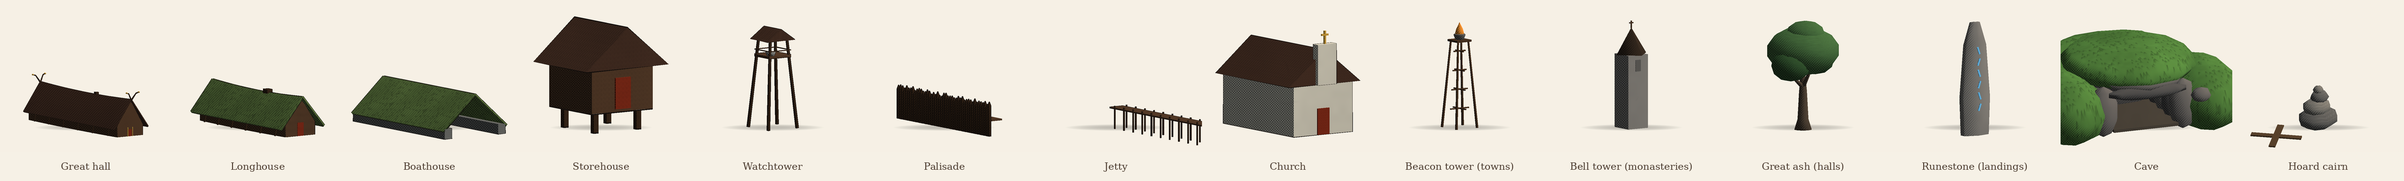
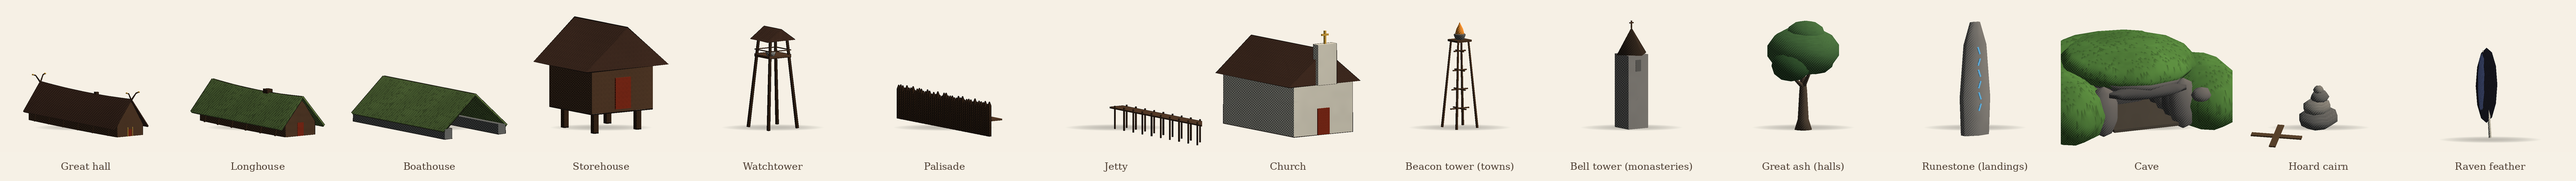
Raven feathers: three hidden on the high ground round every place, taken by walking into them for a little gold and Odin's favour, counted and saved
Claude-Session: https://claude.ai/code/session_01SCdejJ1UF8RUxAkkFhZXGU

diff --git a/OdinsCoin/Assets/Scripts/World/Feathers.cs b/OdinsCoin/Assets/Scripts/World/Feathers.cs
@@ -1,0 +1,113 @@
+using System.Collections.Generic;
+using UnityEngine;
+
+namespace OdinsCoin
+{
+    /// <summary>
+    /// Raven feathers, Odin's little secrets: three hidden round every place, each on the highest ground of a small
+    /// patch of land out beyond the houses (a knoll, a ridge, a clifftop). They hover and turn slowly, black and
+    /// glinting; walk into one to take it: a little gold and Odin's favour. How many you've found is kept.
+    /// </summary>
+    public static class Feathers
+    {
+        public const int PerPlace = 3;
+        /// <summary>How far out from the place's main building feathers lie (m).</summary>
+        public const float MinDistance = 60f, MaxDistance = 450f;
+        /// <summary>How close you must come to take one (m), and what it gives.</summary>
+        public const float PickRange = 1.4f;
+        public const int Gold = 15;
+        public const float Favour = 0.04f;
+
+        /// <summary>The key a feather is saved under.</summary>
+        public static string Key(Place place, int index) { return place.name + "#" + index; }
+
+        /// <summary>
+        /// Where a place's feathers are (global, hovering height above the ground): for each, the highest of a few
+        /// dry spots tried round a random point between <see cref="MinDistance"/> and <see cref="MaxDistance"/>,
+        /// clear of the buildings. The same spots every time.
+        /// </summary>
+        public static List<Vector3> Spots(Place place, List<Plot> plots, System.Func<float, float, float> height)
+        {
+            var list = new List<Vector3>();
+            var main = PlaceLife.MainBuilding(plots);
+            var rng = new System.Random(place.name.GetHashCode() ^ 0xfea7);
+            for (int f = 0, attempt = 0; f < PerPlace && attempt < 24; attempt++)
+            {
+                // Round a random point (tried again elsewhere if it fell in the sea).
+                float a = (float)rng.NextDouble() * Mathf.PI * 2f, r = Mathf.Lerp(MinDistance, MaxDistance, (float)rng.NextDouble());
+                var centre = new Vector3(main.at.x + Mathf.Sin(a) * r, 0f, main.at.z + Mathf.Cos(a) * r);
+                Vector3 best = Vector3.zero;
+                float bestH = float.MinValue;
+                for (int t = 0; t < 12; t++)
+                {
+                    var p = centre + new Vector3(((float)rng.NextDouble() - 0.5f) * 60f, 0f, ((float)rng.NextDouble() - 0.5f) * 60f);
+                    float h = height(p.x, p.z);
+                    if (h < 2f * WorldMap.Scale) continue;
+                    bool clear = true;
+                    foreach (var plot in plots) if (PlaceLife.InsideBuilding(plot, p, 6f)) { clear = false; break; }
+                    if (!clear || h <= bestH) continue;
+                    bestH = h;
+                    best = new Vector3(p.x, h, p.z);
+                }
+                if (bestH > float.MinValue) { list.Add(best); f++; }
+            }
+            return list;
+        }
+
+        static readonly Color Vane = new Color(0.1f, 0.1f, 0.13f), Sheen = new Color(0.24f, 0.28f, 0.42f), Quill = new Color(0.85f, 0.82f, 0.74f);
+
+        /// <summary>A long black feather, standing on its quill, with a blue-black sheen down one side of the vane.</summary>
+        public static VikingModel Model()
+        {
+            var m = new MergedModel();
+            m.Put(Quill, SurfaceKind.Plain, MeshData.Tube(new[] { new Vector3(0f, 0f, 0f), new Vector3(0.02f, 0.35f, 0f), new Vector3(0.06f, 0.7f, 0f) }, new[] { 0.012f, 0.01f, 0.004f }, 5));
+            m.Put(Vane, SurfaceKind.Fur, MeshData.Ellipsoid(new Vector3(0.03f, 0.42f, 0f), new Vector3(0.09f, 0.3f, 0.015f), 8, 6));
+            m.Put(Sheen, SurfaceKind.Fur, MeshData.Ellipsoid(new Vector3(0.07f, 0.44f, 0.004f), new Vector3(0.04f, 0.24f, 0.012f), 6, 5));
+            return m.ToModel("Feather");
+        }
+
+        /// <summary>Put up a place's feathers that haven't been taken yet.</summary>
+        public static void Build(Transform parent, Place place, List<Vector3> spots)
+        {
+            for (int i = 0; i < spots.Count; i++)
+            {
+                if (Upgrades.Current.Feathers.Contains(Key(place, i))) continue;
+                var t = new GameObject("Raven Feather").transform;
+                t.SetParent(parent, false);
+                t.position = WorldOrigin.ToScene(spots[i].x, spots[i].z, spots[i].y + 0.9f);
+                ModelView.Show(Model(), t);
+                var f = t.gameObject.AddComponent<RavenFeather>();
+                f.key = Key(place, i);
+            }
+        }
+
+        /// <summary>How many feathers there are in the world (for "found 7 of 78").</summary>
+        public static int Total { get { return Places.All.Length * PerPlace; } }
+    }
+
+    /// <summary>One feather: bobs and turns, and is taken when the player walks into it.</summary>
+    public class RavenFeather : MonoBehaviour
+    {
+        public string key;
+        Vector3 home;
+        bool started;
+
+        void Update()
+        {
+            if (!started) { home = transform.localPosition; started = true; }
+            transform.localPosition = home + Vector3.up * Mathf.Sin(Time.time * 1.6f + home.x) * 0.12f;
+            transform.localRotation = Quaternion.Euler(0f, Time.time * 50f, 12f);
+            var boot = GameBootstrap.Instance;
+            if (boot == null || boot.Player == null) return;
+            var d = boot.Player.transform.position + Vector3.up * 0.9f - transform.position;
+            if (d.magnitude > Feathers.PickRange) return;
+            var u = Upgrades.Current;
+            if (!u.Feathers.Contains(key)) u.Feathers.Add(key);
+            Fortune.Current.Gold += Feathers.Gold;
+            Fortune.Current.AddFavour(Feathers.Favour);
+            Sfx.At(SfxId.Blessing, transform.position, 0.8f, 0.1f);
+            CombatHud.Banner("A RAVEN FEATHER", "Odin's raven passed this way. " + u.Feathers.Count + " of " + Feathers.Total + " found, and " + Feathers.Gold + " gold.");
+            Destroy(gameObject);
+        }
+    }
+}

diff --git a/tools/tests/LogicTests.cs b/tools/tests/LogicTests.cs
@@ -273,6 +273,9 @@ public static class LogicTests
             stepSave.Steps = 3;
             Fortune stepF; Upgrades stepU;
             SaveGame.Deserialize(SaveGame.Serialize(new Fortune(), stepSave), out stepF, out stepU);
+            stepSave.Feathers.Add("Kaupang#1");
+            SaveGame.Deserialize(SaveGame.Serialize(new Fortune(), stepSave), out stepF, out stepU);
+            Check(stepU.Feathers.Contains("Kaupang#1"), "found raven feathers survive a save");
             Check(stepU.Steps == 3, "how far through the first voyage's hints survives a save");
             // Over many throws of a single chest staked again and again, the average stays what it was: a fair game.
             var rng = new System.Random(11);
@@ -782,6 +785,27 @@ public static class LogicTests
                 if (Caves.Spot(place, cavePlots, (x, z) => TerrainDetail.Height(map, x, z), out at, out yaw)) caves++;
             }
             Check(towns > 20 && caves == towns, caves + " of " + towns + " places have a cave or howe");
+            // And three raven feathers on the high ground round about, on dry land, the same every time.
+            int featherPlaces = 0, featherFine = 0;
+            foreach (var place in Places.All)
+            {
+                var fplots = Settlements.Layout(map, place);
+                if (fplots.Count == 0) continue;
+                Func<float, float, float> fground = (x, z) => TerrainDetail.Height(map, x, z);
+                var a = Feathers.Spots(place, fplots, fground);
+                var b = Feathers.Spots(place, fplots, fground);
+                if (a.Count != Feathers.PerPlace) continue;
+                featherPlaces++;
+                var main = PlaceLife.MainBuilding(fplots).at;
+                bool ok = true;
+                for (int i = 0; i < a.Count; i++)
+                {
+                    float dist = new Vector2(a[i].x - main.x, a[i].z - main.z).magnitude;
+                    ok &= a[i] == b[i] && a[i].y >= 2f && dist > Feathers.MinDistance - 45f && dist < Feathers.MaxDistance + 45f;
+                }
+                if (ok) featherFine++;
+            }
+            Check(featherPlaces >= towns - 2 && featherFine == featherPlaces, featherPlaces + " places have three raven feathers out on the dry high ground");
         }
 
         // Buried hoards: one out beyond every place's houses, on dry land, the same spot every time.

diff --git a/tools/preview/HeroPreview.cs b/tools/preview/HeroPreview.cs
@@ -435,8 +435,8 @@ public static class HeroPreview
         var names = new List<string> { "Great hall", "Longhouse", "Boathouse", "Storehouse", "Watchtower", "Palisade", "Jetty", "Church" };
         // And the landmarks that mark each place from far out at sea.
         var marks = new[] { LandmarkKind.BeaconTower, LandmarkKind.BellTower, LandmarkKind.GreatAsh, LandmarkKind.RuneStone };
-        names.AddRange(new[] { "Beacon tower (towns)", "Bell tower (monasteries)", "Great ash (halls)", "Runestone (landings)", "Cave", "Hoard cairn" });
-        int w = cellW * (kinds.Length + marks.Length + 2), h = cellH;
+        names.AddRange(new[] { "Beacon tower (towns)", "Bell tower (monasteries)", "Great ash (halls)", "Runestone (landings)", "Cave", "Hoard cairn", "Raven feather" });
+        int w = cellW * (kinds.Length + marks.Length + 3), h = cellH;
         var img = new float[w * h * 3];
         for (int i = 0; i < w * h; i++) { img[i * 3] = Paper.r; img[i * 3 + 1] = Paper.g; img[i * 3 + 2] = Paper.b; }
         for (int k = 0; k < kinds.Length; k++)
@@ -455,6 +455,7 @@ public static class HeroPreview
         }
         Render(img, w, h, (kinds.Length + marks.Length) * cellW, cellW, cellH, new Shot { model = Caves.Model(), pose = new Pose(), yaw = 200f, pitch = 18f, zoom = 0.84f * 2.45f / 13f });
         Render(img, w, h, (kinds.Length + marks.Length + 1) * cellW, cellW, cellH, new Shot { model = Hoards.Model(), pose = new Pose(), yaw = 215f, pitch = 25f, zoom = 0.84f * 2.45f / 3.5f });
+        Render(img, w, h, (kinds.Length + marks.Length + 2) * cellW, cellW, cellH, new Shot { model = Feathers.Model(), pose = new Pose(), yaw = 200f, pitch = 10f, zoom = 0.84f * 2.45f / 1f });
         using (var fs = new BinaryWriter(File.Create(rgbaPath)))
         {
             fs.Write(w); fs.Write(h);

diff --git a/OdinsCoin/Assets/Scripts/Core/SaveGame.cs b/OdinsCoin/Assets/Scripts/Core/SaveGame.cs
@@ -43,6 +43,7 @@ namespace OdinsCoin
             if (u.Dug.Count > 0) Line(sb, "dug", string.Join(",", u.Dug.ToArray()));
             if (u.Maps.Count > 0) Line(sb, "maps", string.Join(",", u.Maps.ToArray()));
             if (u.Caves.Count > 0) Line(sb, "caves", string.Join(",", u.Caves.ToArray()));
+            if (u.Feathers.Count > 0) Line(sb, "feathers", string.Join(",", u.Feathers.ToArray()));
             if (u.Steps > 0) Line(sb, "steps", u.Steps.ToString(CultureInfo.InvariantCulture));
             if (u.Vitality + u.Endurance + u.Luck > 0)
                 Line(sb, "gifts", u.Vitality.ToString(CultureInfo.InvariantCulture) + "," + u.Endurance.ToString(CultureInfo.InvariantCulture) + "," + u.Luck.ToString(CultureInfo.InvariantCulture));
@@ -101,6 +102,10 @@ namespace OdinsCoin
                     case "steps":
                         int steps;
                         if (int.TryParse(value, NumberStyles.Integer, CultureInfo.InvariantCulture, out steps)) u.Steps = System.Math.Max(0, System.Math.Min(steps, (int)FirstSteps.Step.Done));
+                        break;
+                    case "feathers":
+                        foreach (var feather in value.Split(','))
+                            if (feather.Trim().Length > 0 && !u.Feathers.Contains(feather.Trim())) u.Feathers.Add(feather.Trim());
                         break;
                     case "caves":
                         foreach (var name in value.Split(','))

diff --git a/OdinsCoin/Assets/Scripts/World/RealWorld.cs b/OdinsCoin/Assets/Scripts/World/RealWorld.cs
@@ -274,6 +274,9 @@ namespace OdinsCoin
             // A cave in the steepest hillside nearby, with a draugr guarding its gold.
             Vector3 cave; float caveYaw;
             if (Caves.Spot(place, plots, ground, out cave, out caveYaw)) { Caves.Build(root, place, cave, caveYaw); Scenery.Clearings.Add(new Vector3(cave.x, cave.z, 12f)); }
+            // Raven feathers hidden on the high ground round about.
+            var feathers = Feathers.Spots(place, plots, ground);
+            Feathers.Build(root, place, feathers);
             // A rune ring round it, with a gift for whoever works it out.
             ShrineRing.Build(root, place, WorldOrigin.ToScene(mark.x, mark.z, mark.y), p => TerrainDetail.Height(map, WorldOrigin.GlobalX(p), WorldOrigin.GlobalZ(p)));
             Scenery.Clearings.Add(new Vector3(mark.x, mark.z, 8f));

diff --git a/OdinsCoin/Assets/Scripts/Hall/Upgrades.cs b/OdinsCoin/Assets/Scripts/Hall/Upgrades.cs
@@ -60,6 +60,8 @@ namespace OdinsCoin
         public readonly List<string> Maps = new List<string>();
         /// <summary>The places whose caves you've emptied.</summary>
         public readonly List<string> Caves = new List<string>();
+        /// <summary>The raven feathers you've found (<see cref="Feathers.Key"/>).</summary>
+        public readonly List<string> Feathers = new List<string>();
         /// <summary>How far through the first voyage's hints (<see cref="FirstSteps.Step"/>).</summary>
         public int Steps;
 

diff --git a/OdinsCoin/ROADMAP.md b/OdinsCoin/ROADMAP.md
@@ -37,3 +37,4 @@ Sea of Thieves med vikinger og Zelda-utforsking, enkelt og artig. Gamblingen er 
 - [x] **20b. Grotter (`World/Caves.cs`):** ved hvert sted er det gravd en grotte inn i den bratteste bakken i nærheten, med åpningen ned mot dalen (på flatt land blir den en gravhaug med åpningen mot byen, der draugen holder til; før fikk bare 6 av 26 steder en grotte, nå får alle). Inne ligger en gullkiste (250–450 gull), og en draug (en død viking i grått) vokter inngangen. Bakken inne i grotta er gravd ut (terrengrutene rundt grotta tegnes i 1 m ruter i stedet for 25 m, så kammeret faktisk synes), og en tømt grotte forblir tom. Ryktene kan handle om grotter.
 - [x] **21. Rykter i stedet for oppdragsliste (`World/Rumours.cs`):** trykk E ved en innbygger for å høre et rykte om et rikt sted som ikke er plyndret, en nedgravd skatt eller en runering som sover. Ryktet sier omtrent hvor langt og i hvilken retning («half a day's sail to the south-west»), men setter ingen markør. Nærmere steder nevnes oftere, og ingen rykter handler om stedet du står på eller det du allerede har tatt. Innbyggeren stopper og snur seg mot deg mens du snakker. Bjørns oppdrag i methallen finnes fortsatt.
 - [x] **22. Første tur (`UI/FirstSteps.cs`):** en ny spiller får ett hint om gangen øverst på skjermen: gå om bord, ta roret, sett seil, finn en kiste, bær den om bord, og sats den ved alteret eller selg den. Hvert hint forsvinner når det er gjort (eller hoppes over hvis du gjør noe senere først), og etter første kiste som er satset eller solgt er hintene borte for godt. Lagres.
+- [x] **23. Ravnefjær (`World/Feathers.cs`):** tre fjær fra Odins ravner er gjemt rundt hvert sted, på det høyeste punktet i et lite område ute bak husene (en haug, en rygg, en klippetopp). De svever og snurrer sakte. Går du inn i en, tar du den: 15 gull og litt av Odins gunst, og banneret viser hvor mange av alle du har funnet. Lagres.
